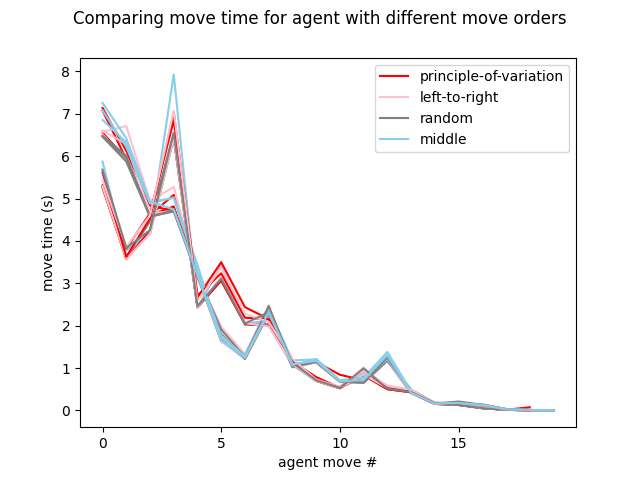
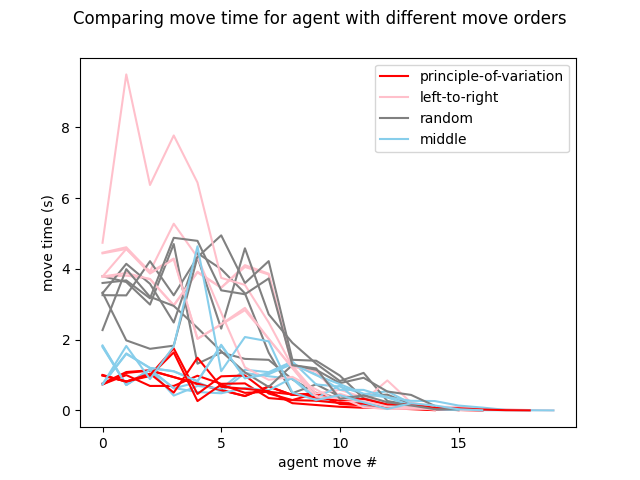
final changes

diff --git a/plot_timetable.py b/plot_timetable.py
@@ -37,6 +37,7 @@ plt.savefig(r'connect_four_ai\results\Figure_1.png')
 
 plt.suptitle('Move time for agent with different move orders')
 for i in range(len(player_game_timetable['pv'])):
+    
     plt.subplot(2,2,1)
     plt.plot(player_game_timetable['pv'][i], color='red')
     #plt.xlabel('agent move #')
@@ -44,6 +45,7 @@ for i in range(len(player_game_timetable['pv'])):
     plt.xticks(range(0,20,5))
     plt.ylim(0,9)
     plt.legend(['principle-of-variation'], fontsize=8)
+
     plt.subplot(2,2,2)
     plt.plot(player_game_timetable['ltr'][i], color='pink')
     #plt.xlabel('agent move #')
@@ -51,20 +53,23 @@ for i in range(len(player_game_timetable['pv'])):
     plt.xticks(range(0,20,5))
     plt.ylim(0,9)
     plt.legend(['left-to-right'], fontsize=8)
+
     plt.subplot(2,2,3)
-    plt.plot(player_game_timetable['middle'][i], color='skyblue')
+    plt.plot(player_game_timetable['random'][i], color='gray')
     plt.xlabel('agent move #')
     plt.ylabel('move time (s)')
     plt.xticks(range(0,20,5))
     plt.ylim(0,9)
-    plt.legend(['middle'], fontsize=8)
+    plt.legend(['random'], fontsize=8)
+    
     plt.subplot(2,2,4)
-    plt.plot(player_game_timetable['random'][i], color='gray')
+    plt.plot(player_game_timetable['middle'][i], color='skyblue')
     plt.xlabel('agent move #')
     #plt.ylabel('move time (s)')
     plt.xticks(range(0,20,5))
     plt.ylim(0,9)
-    plt.legend(['random'], fontsize=8)
+    plt.legend(['middle'], fontsize=8)
+    
 
 plt.show()
 plt.savefig(r'connect_four_ai\results\Figure_2.png')

diff --git a/grid_search_heuristics.py b/grid_search_heuristics.py
@@ -89,8 +89,7 @@ if __name__ == "__main__":
         for j in iterator:
             partial_agent_move1=partial(iterative_deepening_bitstring,three_piece=connected_three_pieces[i], two_piece=connected_two_pieces[i],method='pv')
             partial_agent_move2=partial(iterative_deepening_bitstring,three_piece=connected_three_pieces[j], two_piece=connected_two_pieces[j],method='pv')
-        #(board, PLAYER1,threepiece_score=connected_three_pieces[i], twopiece_score=connected_two_pieces[i])
-        #(board,PLAYER2,threepiece_score=connected_three_pieces[j], twopiece_score=connected_two_pieces[j])
+       
             output=agent_vs_agent(generate_move_1=partial_agent_move1,generate_move_2=partial_agent_move2 ) 
             if output[0]==1: 
                 game_score[players[i]].append(output[1])
@@ -106,5 +105,5 @@ if __name__ == "__main__":
                 else:
                     game_score[players[i]].append(0)
     print(game_score)
-    np.save('connect_four_ai\results\game_score_heuristics.npy', game_score)
+    np.save(r'connect_four_ai\results\game_score_heuristics.npy', game_score)
         

diff --git a/grid_search_timetable.py b/grid_search_timetable.py
@@ -100,9 +100,9 @@ if __name__ == "__main__":
             k+=1
 
     print(game_players)  
-    np.save('connect_four_ai\results\game_players_move_ordering_timetable.npy', game_players)
+    np.save(r'connect_four_ai\results\game_players_move_ordering_timetable.npy', game_players)
     print(game_score)
-    np.save('connect_four_ai\results\game_score_move_ordering_timetable.npy', game_score)
+    np.save(r'connect_four_ai\results\game_score_move_ordering_timetable.npy', game_score)
         
 # if __name__ == "__main__":
  

diff --git a/grid_search_move_ordering.py b/grid_search_move_ordering.py
@@ -37,5 +37,5 @@ if __name__ == "__main__":
                 else:
                     game_score[methods[i]].append(0)
     print(game_score)
-    np.save('connect_four_ai\results\game_score_move_ordering.npy', game_score)
+    np.save(r'connect_four_ai\results\game_score_move_ordering.npy', game_score)
         
